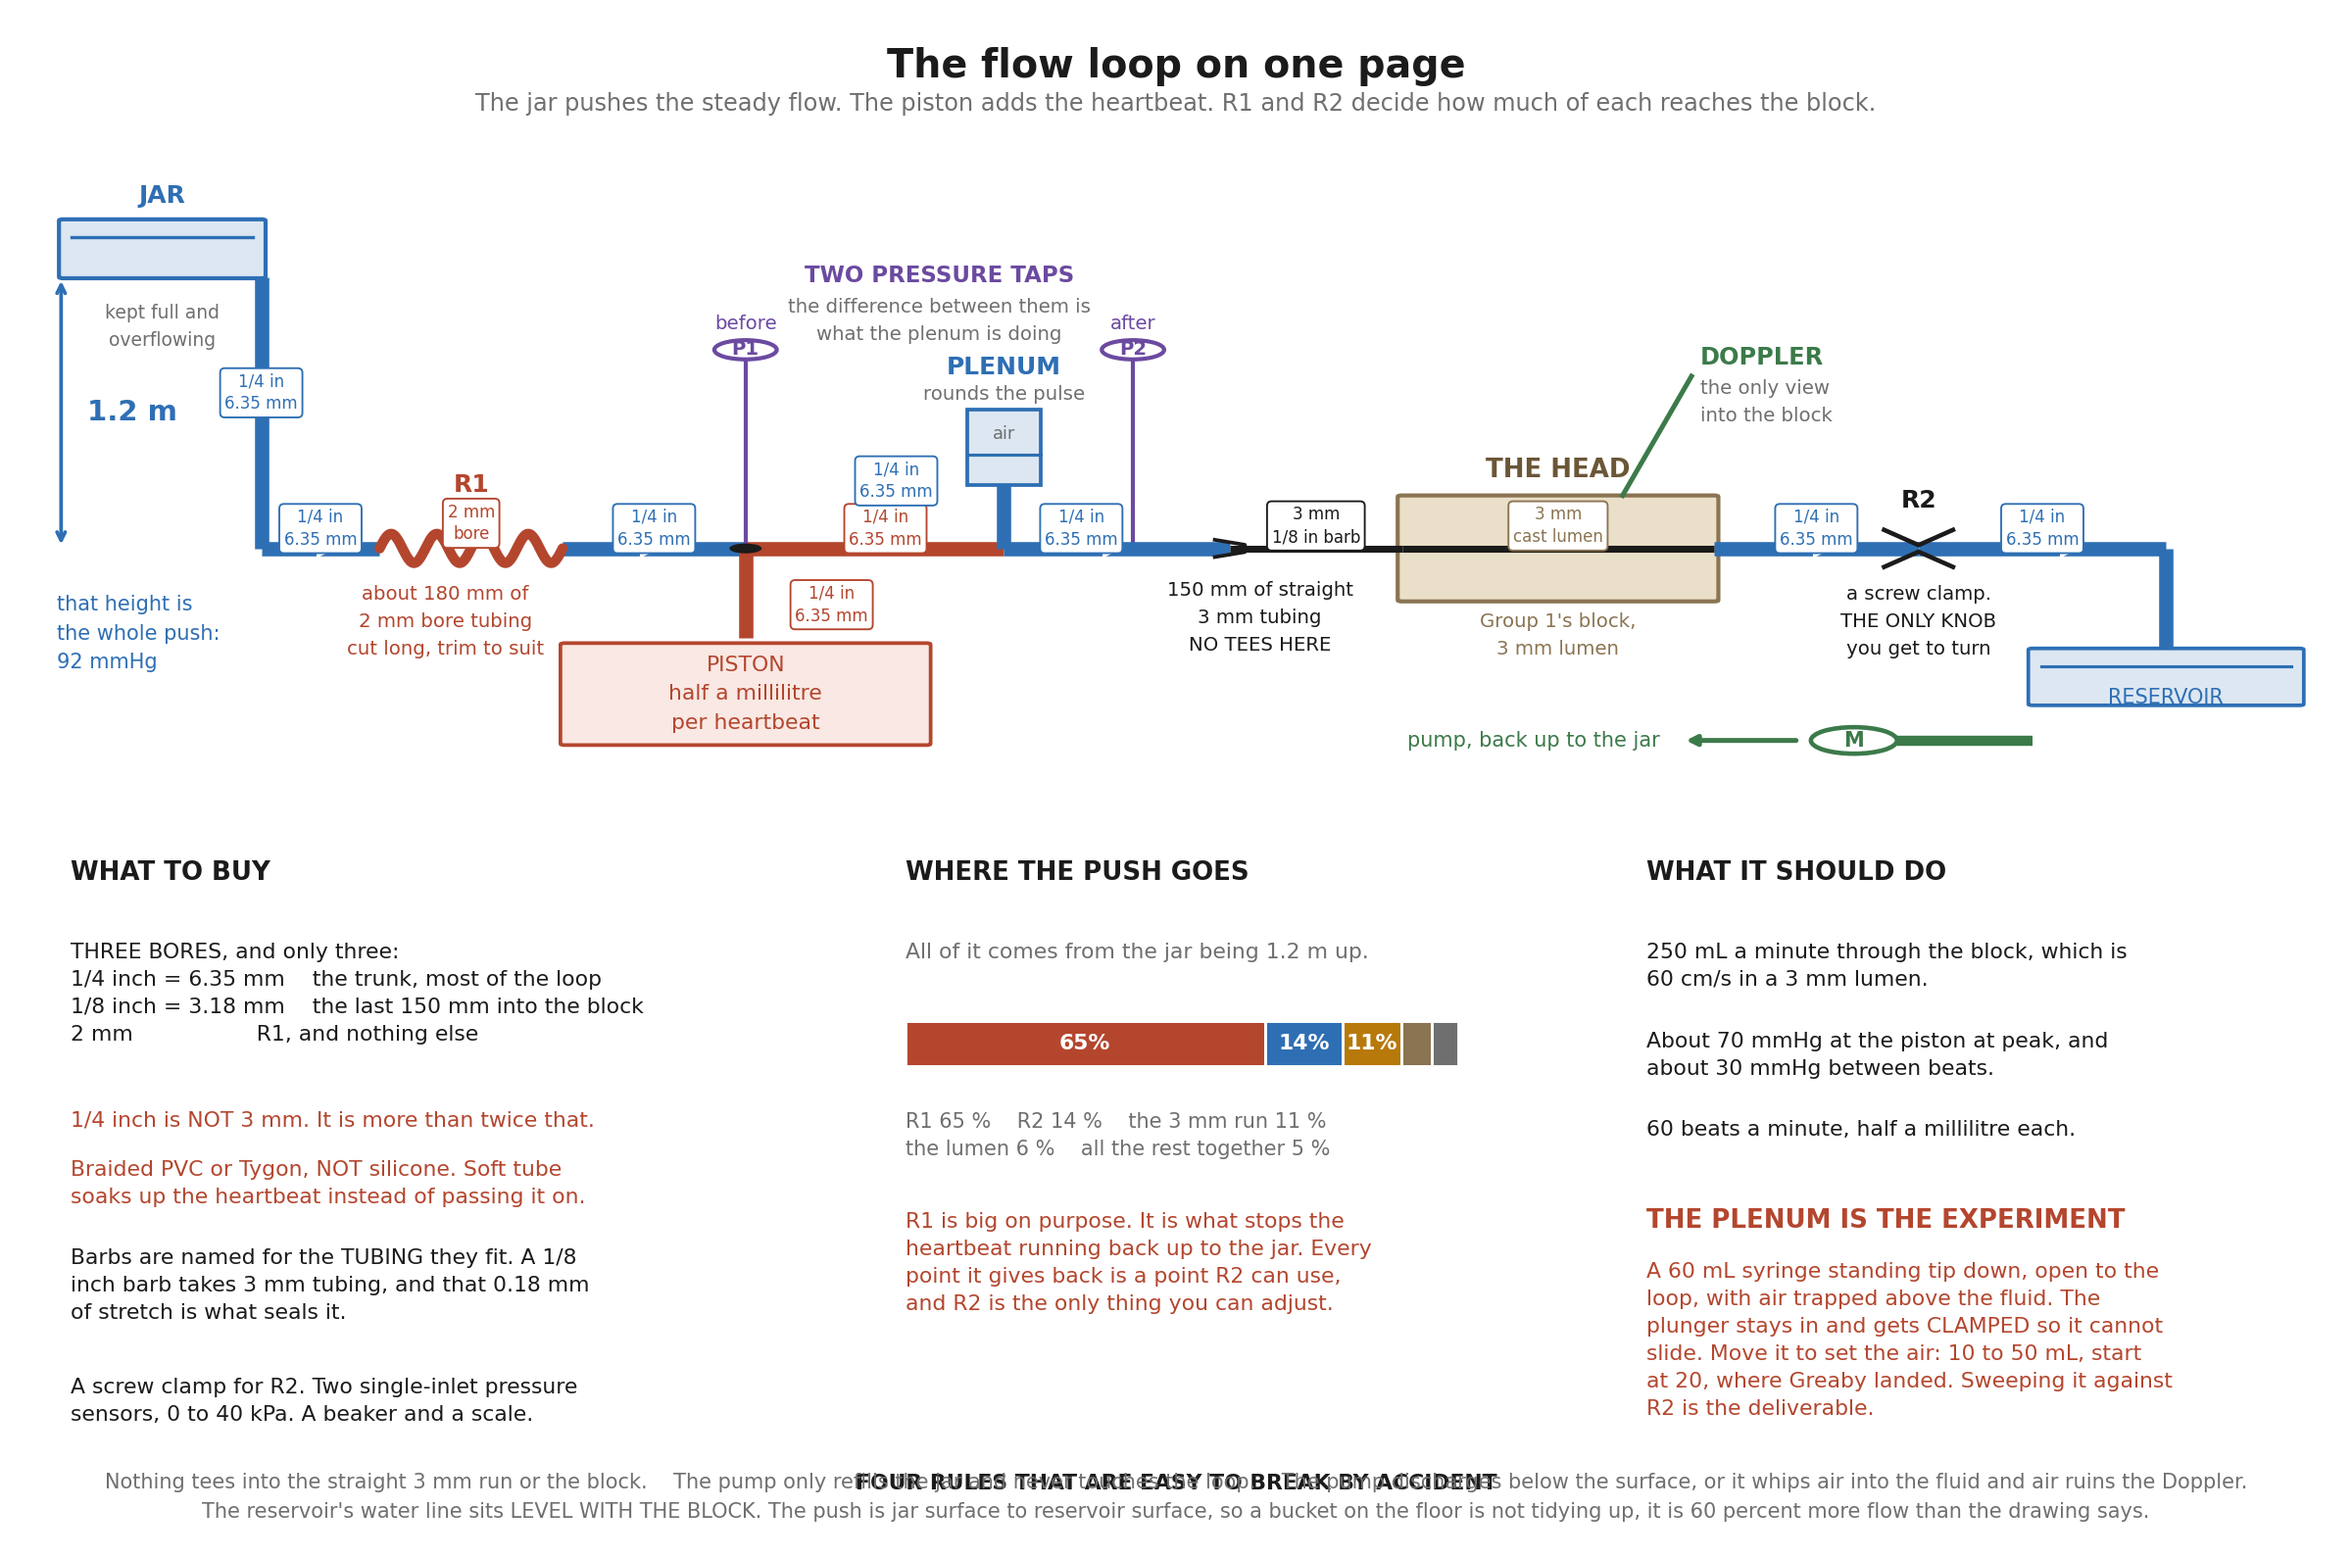
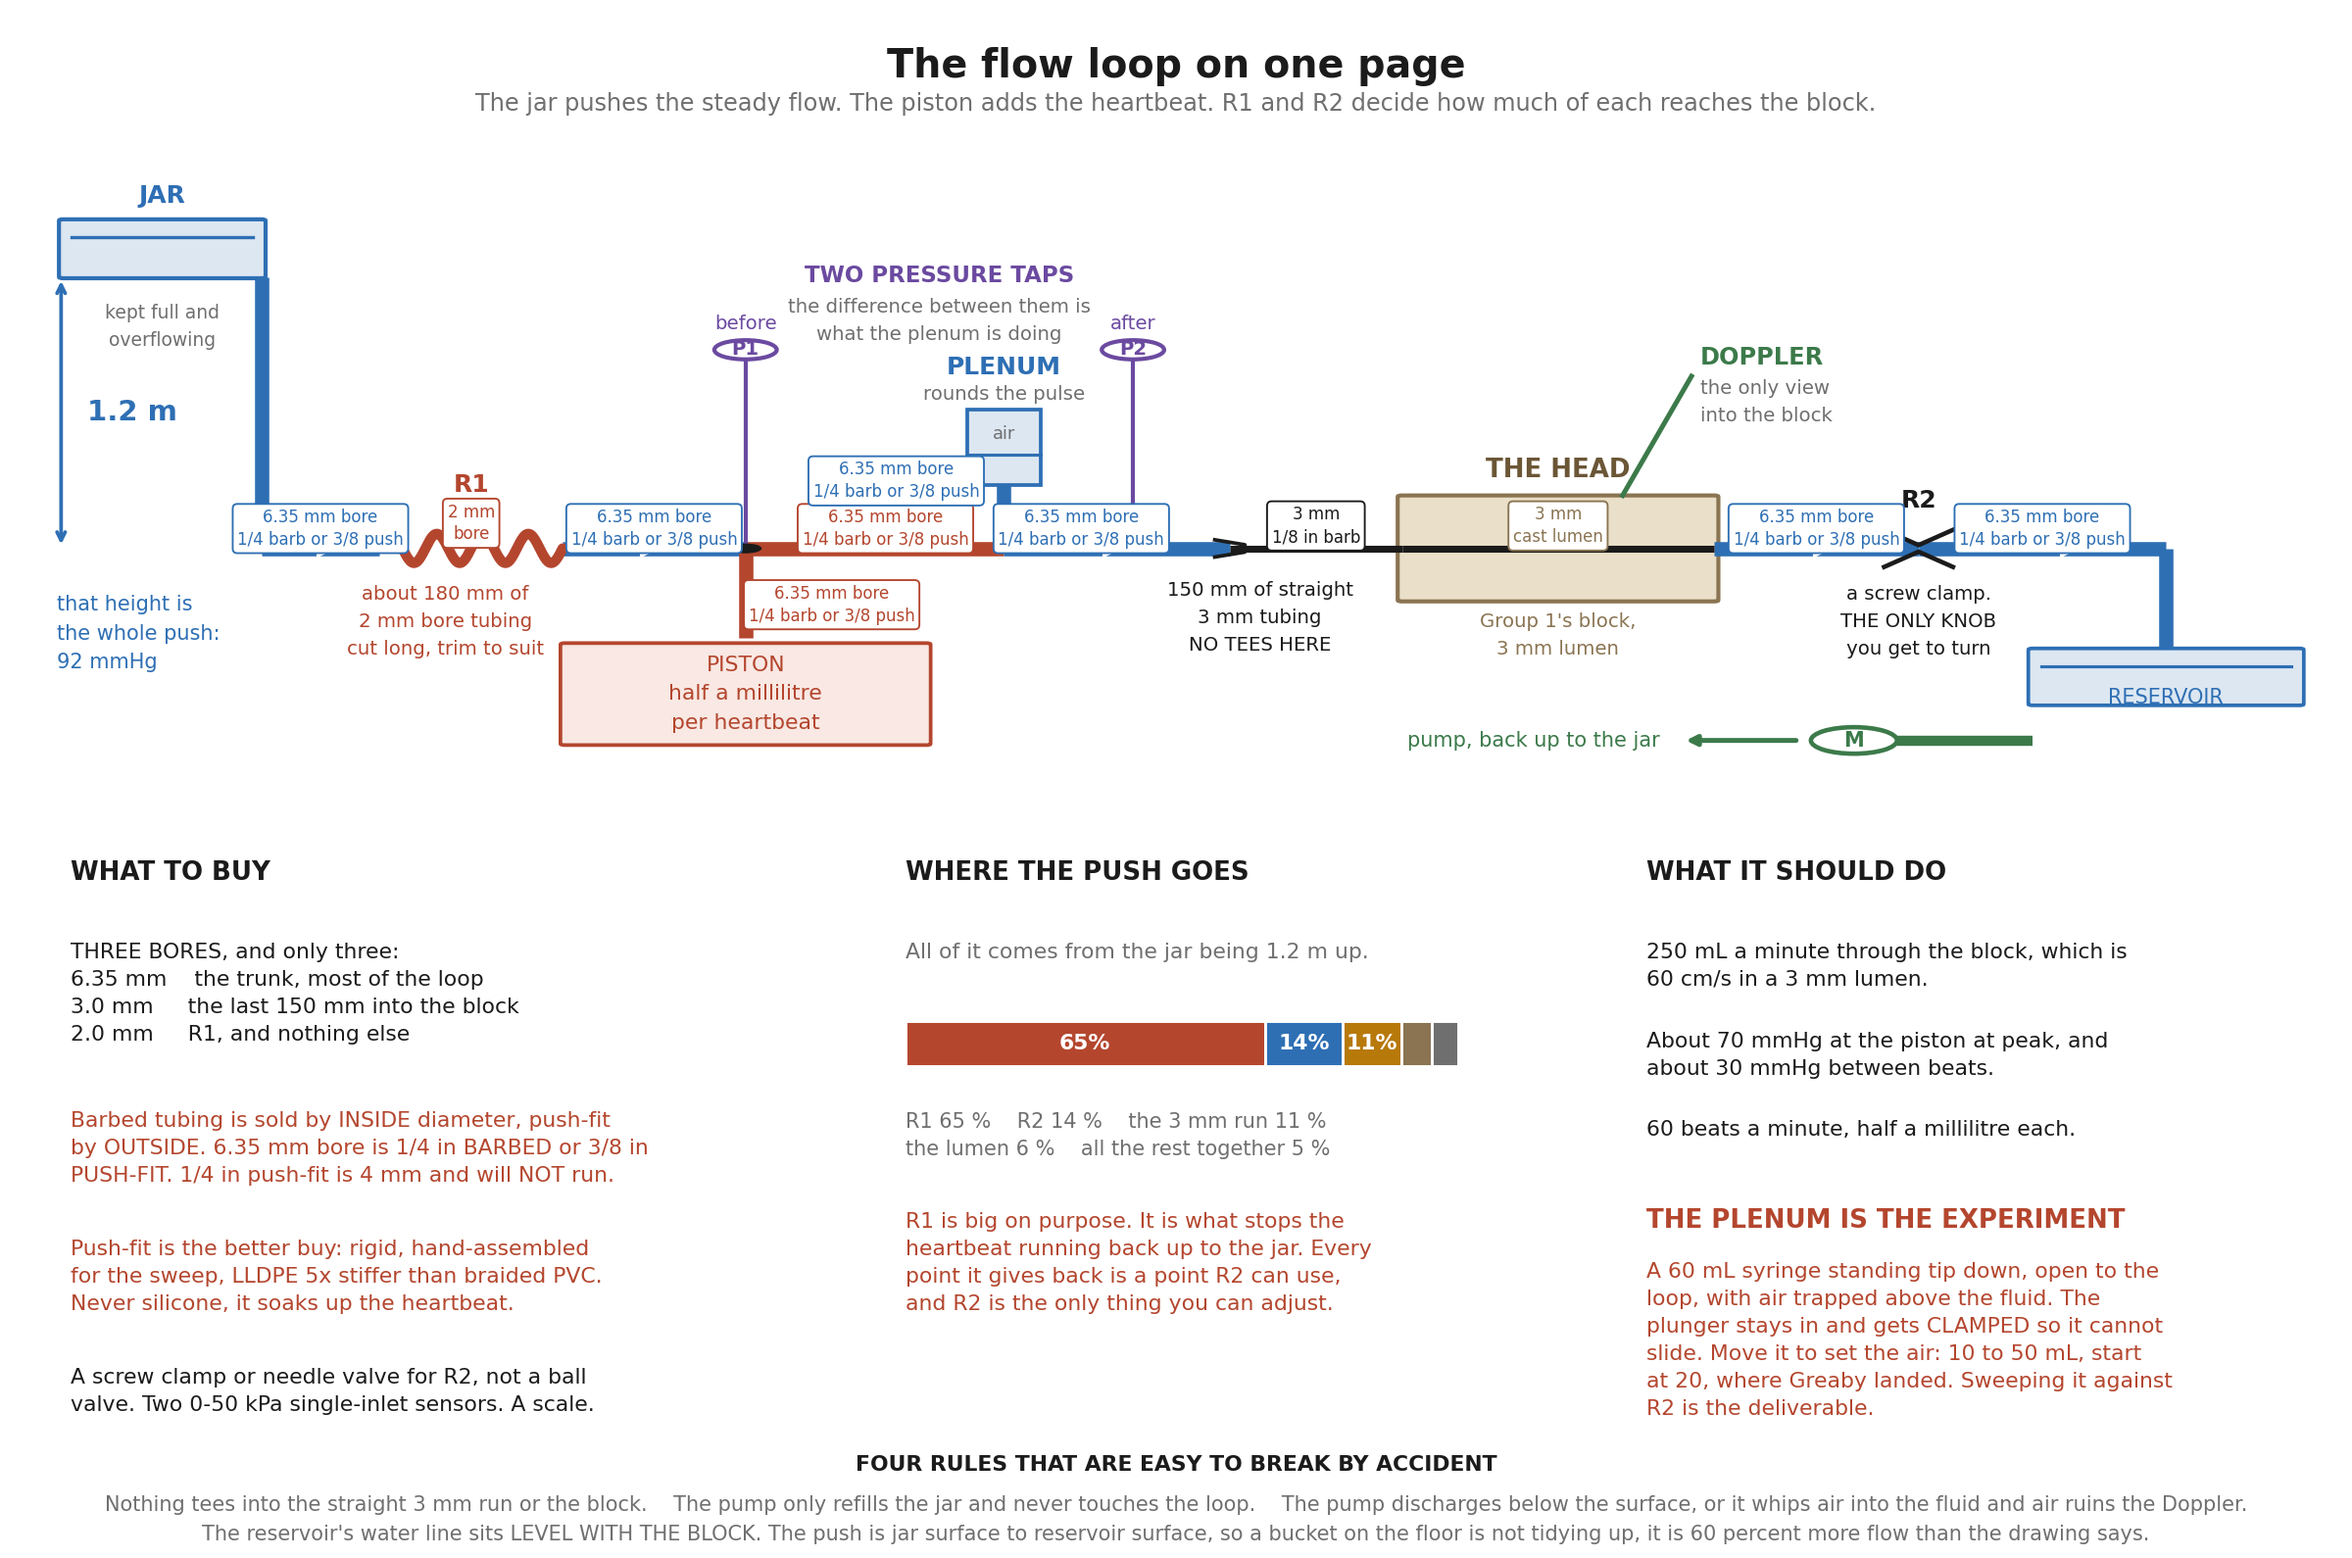
Push-fit RO fittings: yes, and buy the 3/8 inch ones
They are a better fit for this rig than barbs, for reasons that have nothing
to do with price. The bodies are rigid acetal so they add no compliance at
all, unlike a barb on soft tube. The tubing that goes with them is LLDPE,
which is the stiffest thing on the list: 150 mm of it steals 0.08 percent of
the stroke against braided PVC's 0.40 and silicone's 13.5. Five times better
than what this file has been recommending. And they come apart and go back
together by hand, which matters because the deliverable is a sweep: taking
the loop apart and rebuilding it the same way, repeatedly.

THE TRAP IS THE SAME ONE AS BEFORE, wearing different clothes. Push-fit sizes
are the tube's OUTSIDE diameter. Barbed tubing is sold by INSIDE diameter. So
"1/4 inch" means two different bores depending on which aisle it came from:

    1/4 inch BARBED    6.35 mm bore
    1/4 inch PUSH-FIT  6.35 mm outside, about 4 mm bore
    3/8 inch PUSH-FIT  9.53 mm outside, 6.35 mm bore

Resistance goes as 1/bore^4, so 6.35 to 4 mm multiplies every trunk run by
6.4. Worked against the budget with R1 doing the same job, a 1/4 inch OD loop
leaves R2 at MINUS 42 mm: the plumbing alone eats more than the jar provides,
and it never reaches 250 mL/min let alone leaves anything to tune with. The
3/8 inch OD part is identical to what is drawn.

The settling run stays barbed 3 mm, because the push-fit family has nothing
at a 3 mm bore and the lumen has to be matched. One adapter at the
transition, and that is all.
[…]

diff --git a/flow/feed_tubing.py b/flow/feed_tubing.py
@@ -267,6 +267,63 @@ def main():
     A("")
 
     # ------------------------------------------------- the corrected budget
+    # ------------------------------------------- push-fit, and its own trap
+    A("PUSH-FIT RO FITTINGS: YES, AND BUY THE 3/8 INCH ONES")
+    A("  The white NSF water-filter fittings are a better fit for this rig")
+    A("  than barbs, for three reasons that have nothing to do with price.")
+    A("")
+    A("  Their bodies are rigid acetal, so unlike a barb on soft tube they")
+    A("  add no compliance at all. The tubing that goes with them is LLDPE,")
+    A("  which is the stiffest thing on this list by a wide margin:")
+    A("  %-24s %18s" % ("150 mm of 1/4 in ID", "steals, % of stroke"))
+    for nm, e in (("silicone", 1.5e6), ("Tygon PVC", 15e6),
+                  ("braided PVC", 50e6), ("RO tubing, LLDPE", 250e6)):
+        c = compliance(150.0, 6.35, e)
+        A("  %-24s %17.3f" % (nm, 100.0 * c * (40.0 * MMHG) / (S.BEAT_ML * 1e-6)))
+    A("  Five times better than the braided PVC this file has been")
+    A("  recommending, and a hundred and sixty times better than silicone.")
+    A("")
+    A("  And they come apart and go back together by hand. The deliverable")
+    A("  here is a compliance-and-resistance SWEEP, which means taking the")
+    A("  loop apart and putting it back the same way, repeatedly. Barbs and")
+    A("  zip ties punish that. Collets do not.")
+    A("")
+    A("  THE TRAP, AND IT IS THE SAME ONE AS BEFORE. Push-fit sizes are the")
+    A("  tube's OUTSIDE diameter. Barbed tubing is sold by its INSIDE")
+    A("  diameter. So '1/4 inch' means two different bores depending on which")
+    A("  aisle it came from:")
+    A("")
+    A("      1/4 inch BARBED  = 6.35 mm bore")
+    A("      1/4 inch PUSH-FIT = 6.35 mm OUTSIDE, about 4 mm bore")
+    A("      3/8 inch PUSH-FIT = 9.53 mm outside, 6.35 mm bore")
+    A("")
+    A("  Resistance goes as 1/bore^4, so dropping from 6.35 to 4 mm multiplies")
+    A("  every trunk run by %.1f. Worked against the head budget, with R1 held"
+      % ((6.35 / 4.0) ** 4))
+    A("  at the same job:")
+    A("  %-26s %9s %11s %12s" % ("", "bore", "R1 can be", "R2 is left"))
+    A("  %-26s %7.2f mm %8.0f mm %9.0f mm" % ("1/4 in barbed, as drawn", 6.35, 765, 184))
+    A("  %-26s %7.2f mm %8.0f mm %9.0f mm" % ("1/4 in OD push-fit", 4.00, 686, -42))
+    A("  %-26s %7.2f mm %8.0f mm %9.0f mm" % ("3/8 in OD push-fit", 6.35, 765, 184))
+    A("")
+    A("  A 1/4 inch OD push-fit loop does not run. R2 comes out NEGATIVE,")
+    A("  which means the plumbing alone eats more than the jar provides and")
+    A("  the loop never reaches %.0f mL/min, let alone leaves anything to"
+      % Q_MEAN)
+    A("  tune with. The 3/8 inch OD part is identical to what is drawn.")
+    A("")
+    A("  SO: 3/8 inch OD tubing and 3/8 inch fittings for the trunk. The")
+    A("  settling run stays barbed 3 mm, because the push-fit family has")
+    A("  nothing at a 3 mm bore and the lumen has to be matched, so there is")
+    A("  one adapter at the transition and that is all.")
+    A("")
+    A("  One more from the photograph: the BALL VALVES in it are isolation")
+    A("  valves, not throttles. A ball valve goes from shut to open across a")
+    A("  few degrees of handle, which is no way to set R2. Use one to shut")
+    A("  the jar off while you work, and use a screw clamp or a needle valve")
+    A("  for R2.")
+    A("")
+
     A("WHERE THIS SITS IN THE HEAD BUDGET")
     A("  head_budget.py carries the live numbers and this file should not")
     A("  restate them, because that is how two files start disagreeing. What")

diff --git a/flow/one_pager.py b/flow/one_pager.py
@@ -97,7 +97,12 @@ def main():
                 bbox=dict(boxstyle="round,pad=0.28", facecolor="white",
                           edgecolor=col, linewidth=0.9))
 
-    QTR, SML, LUM = "1/4 in\n6.35 mm", "2 mm\nbore", "3 mm\n1/8 in barb"
+    # Labelled by BORE, with both ways to buy that bore underneath, because
+    # the number on the bag means inside diameter in one aisle and outside
+    # diameter in the other.
+    QTR = "6.35 mm bore\n1/4 barb or 3/8 push"
+    SML = "2 mm\nbore"
+    LUM = "3 mm\n1/8 in barb"
 
     X_JAR, X_DROP = 0.55, 1.05
     X_R1A, X_R1B = 1.60, 2.45
@@ -121,7 +126,9 @@ def main():
     lab(0.10, -0.70, "that height is\nthe whole push:\n%.0f mmHg" % mmhg(TANK),
         COOL, 10, ha="left", va="top")
     pipe(X_DROP, X_R1A)
-    bore(X_DROP, 2.35, QTR, COOL)
+    # No badge on the vertical drop: the horizontal run right below it
+    # carries the same one, and the wider label made this a collision with
+    # the 1.2 m dimension. Ten labels, not eleven.
     bore((X_DROP + X_R1A) / 2, 0.30, QTR, COOL)
 
     # ---------------------------------------------------------------- R1
@@ -271,17 +278,17 @@ def main():
     # and "3 mm" as the same thing.
     panel(0.030, "WHAT TO BUY", [
         ("THREE BORES, and only three:\n"
-         "1/4 inch = 6.35 mm    the trunk, most of the loop\n"
-         "1/8 inch = 3.18 mm    the last 150 mm into the block\n"
-         "2 mm                  R1, and nothing else", INK),
-        ("1/4 inch is NOT 3 mm. It is more than twice that.", HOT),
-        ("Braided PVC or Tygon, NOT silicone. Soft tube\n"
-         "soaks up the heartbeat instead of passing it on.", HOT),
-        ("Barbs are named for the TUBING they fit. A 1/8\n"
-         "inch barb takes 3 mm tubing, and that 0.18 mm\n"
-         "of stretch is what seals it.", INK),
-        ("A screw clamp for R2. Two single-inlet pressure\n"
-         "sensors, 0 to 40 kPa. A beaker and a scale.", INK),
+         "6.35 mm    the trunk, most of the loop\n"
+         "3.0 mm     the last 150 mm into the block\n"
+         "2.0 mm     R1, and nothing else", INK),
+        ("Barbed tubing is sold by INSIDE diameter, push-fit\n"
+         "by OUTSIDE. 6.35 mm bore is 1/4 in BARBED or 3/8 in\n"
+         "PUSH-FIT. 1/4 in push-fit is 4 mm and will NOT run.", HOT),
+        ("Push-fit is the better buy: rigid, hand-assembled\n"
+         "for the sweep, LLDPE 5x stiffer than braided PVC.\n"
+         "Never silicone, it soaks up the heartbeat.", HOT),
+        ("A screw clamp or needle valve for R2, not a ball\n"
+         "valve. Two 0-50 kPa single-inlet sensors. A scale.", INK),
     ])
 
     panel(0.385, "WHERE THE PUSH GOES", [
@@ -332,11 +339,11 @@ def main():
              "R2 is the deliverable.",
              fontsize=10.5, color=HOT, va="top", linespacing=1.5)
 
-    fig.text(0.5, 0.044,
+    fig.text(0.5, 0.056,
              "FOUR RULES THAT ARE EASY TO BREAK BY ACCIDENT",
              fontsize=10.5, color=INK, ha="center", fontweight="bold")
-    fig.text(0.5, 0.026,
-             "Nothing tees into the straight 3 mm run or the block.    "
+    fig.text(0.5, 0.040, va="top",
+             s="Nothing tees into the straight 3 mm run or the block.    "
              "The pump only refills the jar and never touches the loop.    "
              "The pump discharges below the surface, or it whips air into "
              "the fluid and air ruins the Doppler.\n"
